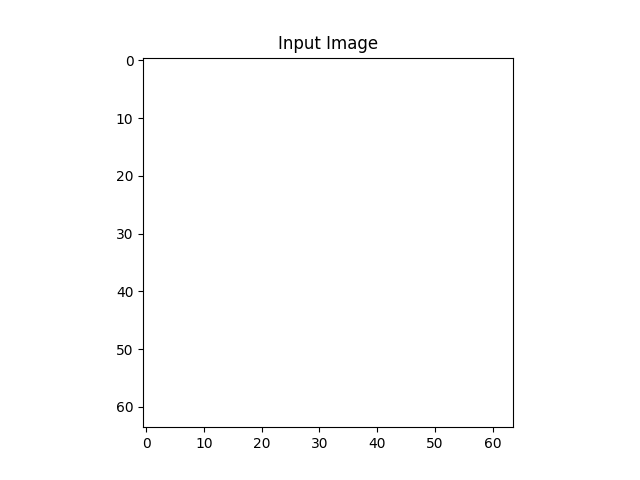
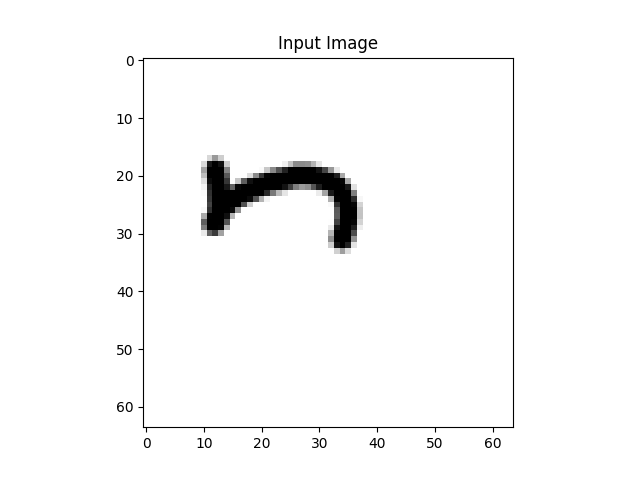
add popup backend

Changed region(s): [[0.3125, 0.3125, 0.5938, 0.5312]]

diff --git a/app.py b/app.py
@@ -72,7 +72,7 @@ def transcribe_audio():
         return jsonify({"error": str(e)}), 500
 
 
-
+#A-Level Question 12
 @app.route('/transcribe_and_score', methods=['POST'])
 def transcribe_and_score():
     if 'audio' not in request.files or 'target_word' not in request.form:
@@ -447,7 +447,7 @@ def predict_q8():
                 if isinstance(x, str):
                     model_predict_3= x
             print("Model Prediction: ",model_predict_3)
-            if model_predict_3 not in ['s','S_caps',5]:
+            if model_predict_3 not in ['s','S_caps','5']:
                 doc_ref.set({
                     'Question Number': question_number,
                     'Answer': 'Incorrect',
@@ -472,7 +472,7 @@ def predict_q8():
                 if isinstance(x, str):
                     model_predict_4= x
             print("Model Prediction: ",model_predict_4)
-            if model_predict_4 not in ['z','Z_caps']:
+            if model_predict_4 not in ['z','Z_caps','2']:
                 doc_ref.set({
                     'Question Number': question_number,
                     'Answer': 'Incorrect',
@@ -904,7 +904,8 @@ def predict_handwriting_sentence():
                         if ((expected_char.lower()=='o' and (str(model_predict) =='O_caps' or str(model_predict)=='0')) or (expected_char.lower()=='s' and (str(model_predict) =='S_caps' or str(model_predict)=='5')) or (expected_char.lower()=='w' and str(model_predict) =='W_caps') or
                             (expected_char=='T' and str(model_predict)=='T_caps') or 
                             (expected_char=='b' and str(model_predict)=='B_caps') or 
-                            (expected_char=='H' and str(model_predict)=='H_caps')):
+                            (expected_char=='H' and str(model_predict)=='H_caps') or
+                            (expected_char=='g' and str(model_predict)=='9')):
                             continue
                         # Record the error
                         else:
@@ -943,7 +944,7 @@ def predict_handwriting_sentence():
     return "Missing Data", 400
 
 #question19 
-@app.route('/transcribe_and_score', methods=['POST'])
+@app.route('/transcribe_and_score1', methods=['POST'])
 def transcribe_and_score1():
     if 'audio' not in request.files or 'target_word' not in request.form:
         return jsonify({"error": "Missing audio file or target_word"}), 400
@@ -1002,7 +1003,7 @@ def transcribe_and_score1():
             try:
                 db = get_db()
                 # Determine level based on question number
-                level = "Level_4" if int(question_number) >= 16 else "Level_3"
+                level ="Level_4"
                 doc_ref = db.collection('Assessment_Test') \
                             .document(user_id) \
                             .collection(level) \
@@ -1087,8 +1088,63 @@ def get_common_errors(user_id):
         return jsonify({"error": str(e)}), 500
     
 
-    
-    
+
+#Home Sceen Popup
+@app.route('/api/scores/<user_id>', methods=['GET'])
+def get_user_scores(user_id):
+    try:
+        db = get_db()
+        
+        # --- CHECK IF ASSESSMENT IS COMPLETED ---
+        user_profile_ref = db.collection('users').document(user_id)
+        user_profile_doc = user_profile_ref.get()
+        
+        if not user_profile_doc.exists:
+            return jsonify({"status": "error", "message": "User profile not found."}), 404
+            
+        user_data = user_profile_doc.to_dict()
+        has_completed = user_data.get('hasCompletedAssessment', True)
+        
+        # If  haven't finished, return an empty list 
+        if not has_completed:
+            return jsonify({"status": "success", "data": []}), 200
+
+        # ---  CALCULATE SCORES ---
+        assessment_ref = db.collection('Assessment_Test').document(user_id)
+        
+        scores_summary = []
+
+        
+        level_totals = {
+            'Level_1': 5,
+            'Level_2': 5,
+            'Level_3': 5,
+            'Level_4': 4
+        }
+
+        # Loop through every expected level
+        for level_name, total_questions in level_totals.items():
+            
+       
+            collection_ref = assessment_ref.collection(level_name)
+            
+            # Count the number of error documents
+            
+            errors_made = len(list(collection_ref.stream()))
+            
+            # Calculate correct answers
+            correct_answers = max(0, total_questions - errors_made)
+            
+            scores_summary.append({
+                "level": level_name,
+                "score": f"{correct_answers}/{total_questions}"
+            })
+
+        return jsonify({"status": "success", "data": scores_summary}), 200
+
+    except Exception as e:
+        print(f"Flask API Error: {e}")
+        return jsonify({"status": "error", "message": str(e)}), 500
 if __name__ == "__main__":
     app.run(host='0.0.0.0', port=5001,threaded=True)
 
